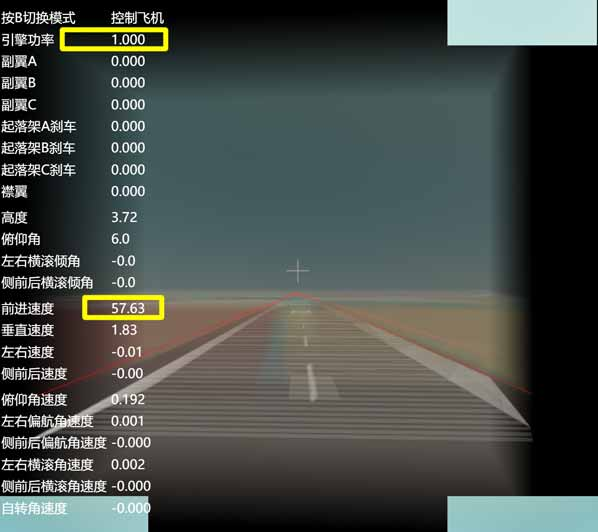
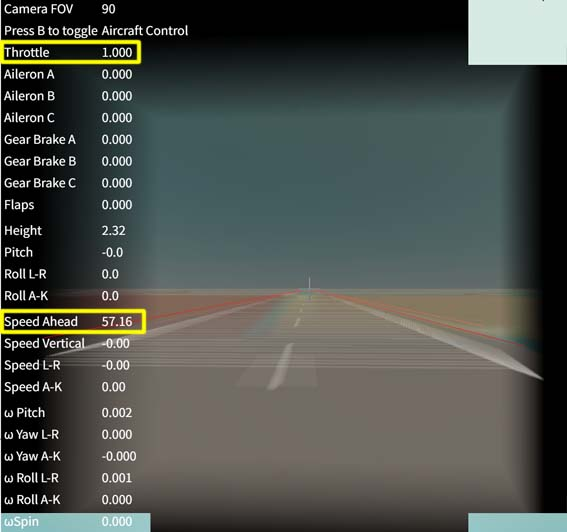
translate images and fix bugs

diff --git a/source/_posts/tesserxel-flightsim.md b/source/_posts/tesserxel-flightsim.md
@@ -41,8 +41,8 @@ Because the two-dimensional track can be steered like a car, this railway is act
 Click on [Physics World -> Drone](https://wxyhly.github.io/tesserxel/examples/#drone) in the sidebar. After the scene loads, the drone is stationary and is in **drone control mode**. Now let's look at the tutorial for operating the 4D drone.
 
 ### Drone Takeoff
-You can now press the Space key a few times, and the drone's propellers will spin up and take off. If you hold down the Space key, the drone will fly out of the camera's field of view. You can try quickly and briefly pressing the Space key to try to make the drone hover in view. Pay close attention to the altitude parameter highlighted in the figure, which indicates the drone's height relative to the ground.
-<img alt="Drone takeoff, key parameters and settings are highlighted with red boxes" src="/img/tsxfsm001.jpg" style="width:100%;max-width:400px">Here's how to switch between automatic and manual modes: After pressing the T key to switch to automatic mode, the Space key makes the drone ascend, and the Shift key makes it descend. If you don't press any keys, the drone will automatically adjust the propeller speed to achieve a slow hover. Due to flaws in the automatic control system, the hovering stabilization process is a bit slow and can have some drift. You can alternate between the Space and Shift keys to eventually get the drone to hover at a suitable altitude.
+You can now press the Space key a few times, and the drone's propellers will spin up and take off. If you hold down the Space key, the drone will fly out of the camera's field of view. You can try quickly and briefly pressing the Space key to try to make the drone hover in view. Pay close attention to the height parameter highlighted in the figure, which indicates the drone's height relative to the ground.
+<img alt="Drone takeoff, key parameters and settings are highlighted with red boxes" src="/img/tsxfsm001.jpg" style="width:100%;max-width:400px">Here's how to switch between automatic and manual modes: After pressing the T key to switch to automatic mode, the Space key makes the drone ascend, and the Shift key makes it descend. If you don't press any keys, the drone will automatically adjust the propeller speed to achieve a slow hover. Due to flaws in the automatic control system, the hovering stabilization process is a bit slow and can have some drift. You can alternate between the Space and Shift keys to eventually get the drone to hover at a suitable height.
 
 ### Switching Views to Observe the Drone
 Press the B key to toggle whether the keyboard controls the drone or the camera. When switched to camera mode, the Space/Shift keys will control the camera's up/down movement, and you will no longer have control over the drone. When switched to drone mode, all keyboard operations are for the drone, and you cannot move the camera, but since mouse operations are not used to control the drone, you can still drag the mouse to turn the camera. The camera does not follow the drone's movement by default. To switch to a camera position that follows the drone, just press the number keys 1, 2, or 3. Note that pressing Alt + a number key switches between different view configurations for rendering voxel photos and other modes, and is no longer for camera position selection. When you select these camera positions that follow the drone, the camera is bound to the drone, so you cannot directly control the camera. The system will therefore default to drone control mode.
@@ -71,13 +71,13 @@ Now let's look at the grand finale of this article, the 4D aircraft flight simul
 As we know, the 4D ground is 3D, and driving on a 4D road has the same degrees of freedom as flying in 3D air. However, a 4D plane can add another altitude direction on top of this. What would the experience of a 4D flight simulator be like? Unfortunately, I haven't found any 4D flight simulators on the market, so I had to use Tesserxel's physics engine to hand-craft one.
 ![Google Earth's built-in flight simulator](/img/tsxfsm012.jpg)
 ### 4D Aircraft Structure
-Open the aircraft scene under Physics World, and after the scene loads, you will see an aircraft parked on the runway. The default mode is camera control mode, and you can first walk around the plane to observe its structure. If you are not interested in the plane model's structure and just want to experience flying it, please press the number pad key 1 to board the plane, which will automatically enter plane control mode. For specific operations, please see the next section.
+Open the aircraft scene under Physics World, and after the scene loads, you will see an aircraft parked on the runway. The default mode is camera control mode, and you can first walk around the plane to observe its structure. If you are not interested in the plane model's structure and just want to experience flying it, please press the digit key 1 to board the plane, which will automatically enter plane control mode. For specific operations, please see the next section.
 ![By dragging the mouse to a slightly different angle, you can see from the top-right cross-section that it cuts through the three objects on the plane that are distributed at 120 degrees](/img/tsxfsm013.jpg)
 Since the 4D plane model has many parts and is too complex, let's first get to know the specific parts from the cross-sections, and then try to identify them in the voxel view. First, let's review the operations for moving around on the 3D ground: focus on the horizontal cross-section in the top-right corner. You can choose a large cross-section mode (Alt+2) or a mode that only shows the horizontal cross-section (Alt+7), according to your personal preference. Dragging with the left mouse button can change the direction on the 3D ground, W/S for moving forward/backward, A/D for moving left/right, and Q/E for moving up/down. Note that this is "up/down" as it appears in the 3D ground view. The horizontal cross-section actually omits the true up/down gravity direction, and the movement corresponding to the Q/E direction is actually the ana/kata direction. The real movement in the gravity direction is controlled by the Space and Shift keys. By adjusting to different altitudes, the horizontal cross-section will cut through different things. For example, we can see the distribution of windows on the plane, the three wings distributed symmetrically at 120 degrees. From the position where the cross-section cuts the wings, we can see that the wingtips are slightly upturned. We can also see the horizontal and vertical stabilizers of the tail and the wheels of the landing gear at the very bottom. Why these things are constructed this way is not the subject of this article; for the specific design principles, please refer to [《4D World (IX): Aircraft Design》](/archives/aircraft4d/).
 
 ![As the camera moves up and down, the cross-section of the plane in the horizontal cross-section changes](/img/tsxfsm001.gif)
 Some readers may not be used to viewing the horizontal cross-section, which lacks the gravity direction. The vertical cross-sections often look a bit strange because they don't cut through the plane's important structures. For example, because the wings and landing gear wheels are distributed at 120 degrees, after aligning with the plane by pressing 1 and then pressing B to regain camera control, you can see that everything on the plane in the bottom-left cross-section is only a half. To see the other hidden parts, you can press the Z/X keys to rotate the camera's self-rotation, which in turn rotates the cross-section.
-![The 4D plane in the normal cross-section view is not "missing limbs"](/img/tsxfsm014.jpg)
+![The 4D plane in the vertical cross-section view is not "missing limbs"](/img/tsxfsm014.jpg)
 A way to see the full plane is to look down on it. We can press the Space key to ascend, and then use the mouse scroll wheel or K key to look down at the ground. After adjusting the angle appropriately, you can see the plane with 120-degree wings and tail. Don't forget that the voxel view is 3D, so you can occasionally press the Alt key and drag it to rotate to understand the structure in the 3D view. Remember to press Alt+R to reset afterwards to avoid getting disoriented.
 ![Top-down view of the 4D plane](/img/tsxfsm015.jpg)
 

diff --git a/source/programs/index.md b/source/programs/index.md
@@ -68,7 +68,7 @@ A personalized keyboard piano app. No keybinding options, adapted for improvised
     + [Mercator projections in different Earth orientations](/three/shaderEarth.html)
     + [Mercator projection of regular polyhedral](/three/ployhedralEarth.html)
 - [[Original](/archives/escher1/)] [Hyperbolic tiling model](/three/HyperbolicSpace.html)
-- [[Original](/archives/josleys4ds/)] [Lattice space from Dimension Film's preview](/three/LatticeViewer.html)
+- [[Original](/archives/josleys4ds/)] [Lattice space from Dimension Film's trailer](/three/LatticeViewer.html)
 - [[Original](/archives/fibration4ds/)] Hopf fibration:
     + [Three orthogonal Hopf fibrations](/three/Hopf%20fibre1.html)
     + [Part of a Hopf fibration](/three/Hopf%20fibre2.html)
